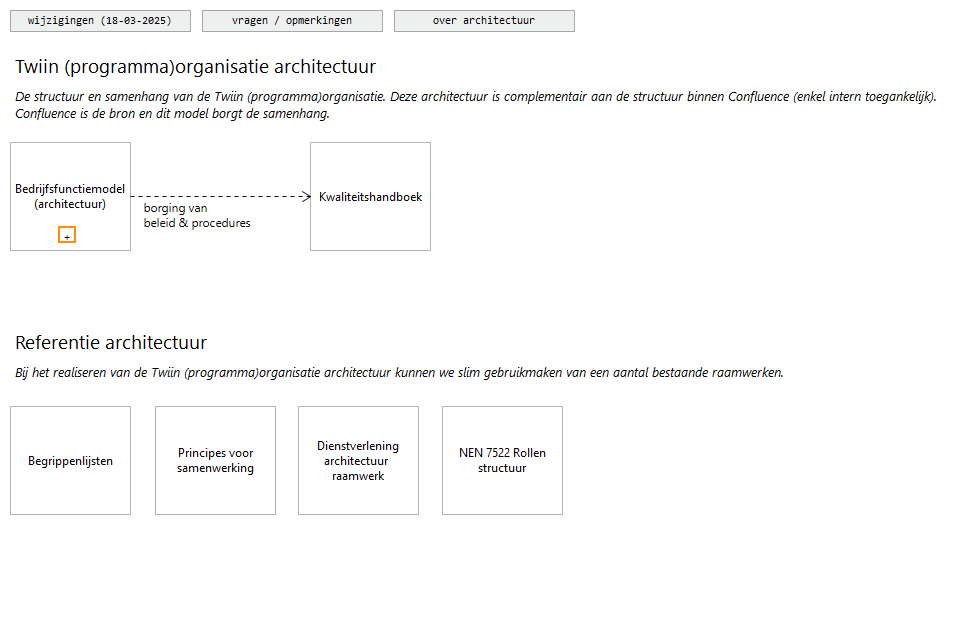
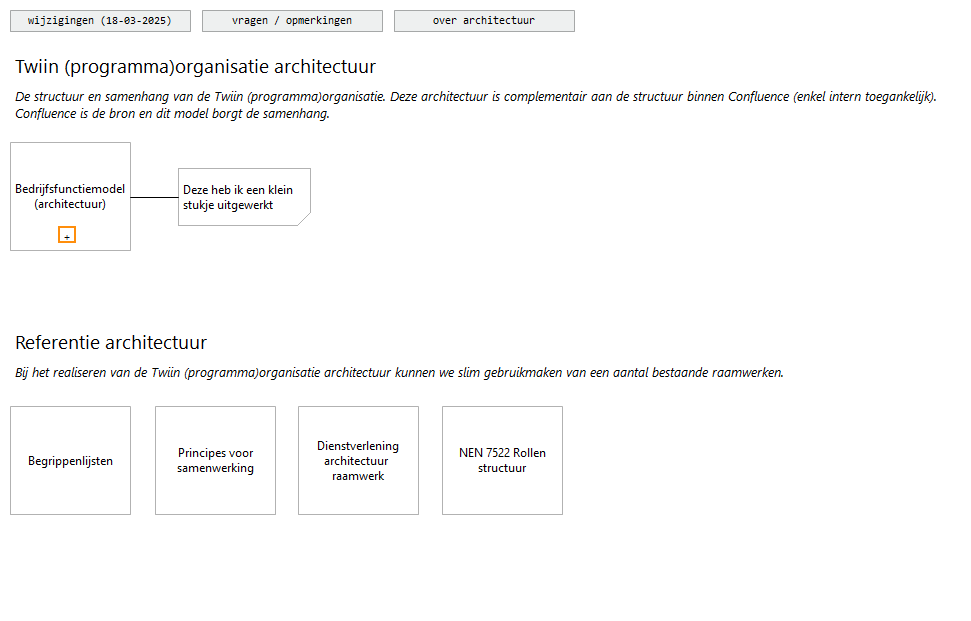
update

Changed region(s): [[0.1545, 0.2754, 0.4325, 0.3671]]

diff --git a/docs/tw-archi/id-b585bbf4dca74a17a0d9c57ed3b9f891/objects/id-09be0398b60a48168b0d820135140244.html b/docs/tw-archi/id-b585bbf4dca74a17a0d9c57ed3b9f891/objects/id-09be0398b60a48168b0d820135140244.html
@@ -1,0 +1,95 @@
+<!DOCTYPE html>
+<html class="frame" lang="en">
+<head>
+	<meta http-equiv="Content-Type" content="text/html;charset=utf-8">
+	<title></title>
+
+	<!-- JQUERY -->
+	<script type="text/javascript" src="../../lib/jquery/jquery.min.js"></script>
+	<!-- BOOTSTRAP -->
+	<link type="text/css" rel="stylesheet" href="../../lib/bootstrap/css/bootstrap.min.yeti.css">
+	<script type="text/javascript" src="../../lib/bootstrap/js/bootstrap-3.4.1.min.js"></script>
+	<!-- REPORT SPECIFIC -->
+	<link type="text/css" rel="stylesheet" href="../../css/model.css">
+	<link type="text/css" rel="stylesheet" href="../../css/i18n.css">
+	<script type="text/javascript" src="../../js/frame.js"></script>
+	<script type="text/javascript" src="../../js/imageMapResizer.min.js"></script>
+</head>
+
+<body>
+	<div class="panel panel-default root-panel">
+
+		<div class="panel-heading root-panel-heading">
+            <!-- Name -->
+               <b class="i18n-elementtype-DiagramModelNote"></b>
+            <!-- If a View with Viewpoint -->
+			   (<span class="i18n-elementtype-DiagramModelNote"></span>)
+			   <a class="glyphicon glyphicon-info-sign" id="hint-DiagramModelNote" target="hint"></a>
+		</div>
+
+		<div class="panel-body root-panel-body">
+		    <!-- If this is a digram model (has children and no bounds) show the image -->
+
+			<div role="tabpanel">
+				<!-- Nav tabs -->
+				<ul class="nav nav-tabs" role="tablist">
+                    <!-- Purpose / Documentation / Content -->
+                       <li role="presentation" class="active"><a href="#documentation" aria-controls="documentation" role="tab" data-toggle="tab" class="i18n-content"></a></li>
+
+                    <!-- Properties -->
+                    <li role="presentation"><a href="#properties" aria-controls="properties" role="tab" data-toggle="tab" class="i18n-properties"></a></li>
+
+                    <!-- Analysis -->
+
+				</ul>
+
+				<!-- Tab panes -->
+				<div class="tab-content">
+					<div role="tabpanel" class="tab-pane active" id="documentation">
+						<div class="convertlinks documentation" style="white-space:pre-wrap">Deze heb ik een klein stukje uitgewerkt</div>
+					</div>
+					<div role="tabpanel" class="tab-pane" id="properties">
+						<table class="table table-striped table-hover table-condensed">
+							<thead>
+								<tr>
+									<th class="i18n-key"></th>
+									<th class="i18n-value"></th>
+								</tr>
+							</thead>
+							<tbody>
+							</tbody>
+						</table>
+					</div>
+					<div role="tabpanel" class="tab-pane" id="analysis">
+						<table class="table table-striped table-hover table-condensed" id="used-in-views">
+							<thead>
+								<tr><th colspan="2" class="i18n-used-in-views" /></tr>
+								<tr>
+									<th class="i18n-name"></th>
+									<th class="i18n-viewpoint"></th>
+								</tr>
+							</thead>
+							<tbody>
+							</tbody>
+						</table>
+						<table class="table table-striped table-hover table-condensed" id="model-relations">
+							<thead>
+								<tr><th colspan="4" class="i18n-model-relations" /></tr>
+								<tr>
+									<th class="i18n-name"></th>
+									<th class="i18n-type"></th>
+									<th class="i18n-source"></th>
+									<th class="i18n-target"></th>
+								</tr>
+							</thead>
+							<tbody>
+							</tbody>
+						</table>
+					</div>
+			  </div>
+			</div>
+		</div>
+	</div>
+	<script type="text/javascript">imageMapResize();</script>
+</body>
+</html>

diff --git a/docs/tw-archi/id-b585bbf4dca74a17a0d9c57ed3b9f891/views/id-11787c87dbfc49d39d5d689c7857e7eb.html b/docs/tw-archi/id-b585bbf4dca74a17a0d9c57ed3b9f891/views/id-11787c87dbfc49d39d5d689c7857e7eb.html
@@ -33,13 +33,13 @@
 		    <!-- If this is a digram model (has children and no bounds) show the image -->
 			   <img class="diagram" src="../images/id-11787c87dbfc49d39d5d689c7857e7eb.png" alt="Start - organisatie architectuur" usemap="#id-11787c87dbfc49d39d5d689c7857e7ebmap"/>
 			   <map name="id-11787c87dbfc49d39d5d689c7857e7ebmap">
+				          <area shape="rect" coords="178,168,311,226" href="../objects/id-09be0398b60a48168b0d820135140244.html" target="element" >
 				  				<area shape="rect" coords="58,226,77,244" href="../views/id-08fc967038504422a44cc6327dce0b17.html"  target="view">
 				  		    <!-- Other diagram objects -->
 
 				          <area shape="rect" coords="10,142,131,251" href="../objects/id-ed208d88145b4fab8f252e11099b687e.html" target="element" >
 				  		<area shape="rect" coords="16,574,59,611" href="../elements/id-8f1c8157bffb4f148c7d77a7ec061ca2.html"  target="element">
 				          <area shape="rect" coords="442,406,563,515" href="../objects/id-b3c903e924794d2bb0d14c9618775e02.html" target="element" >
-				          <area shape="rect" coords="310,142,431,251" href="../objects/id-f4afdefc1be2410eb575c5ca7587ee2e.html" target="element" >
 				          <area shape="rect" coords="298,406,419,515" href="../objects/id-84ec75b01e9a4bfa884b3681158abd9f.html" target="element" >
 				          <area shape="rect" coords="155,406,276,515" href="../objects/id-6be826e5c7834cf9b69b0826dcc0b830.html" target="element" >
 				          <area shape="rect" coords="10,406,131,515" href="../objects/id-bf4bf949253f4f8cb112360d4a24433b.html" target="element" >
@@ -172,11 +172,6 @@
 									        </tr>
 
 									        <tr>
-									           <td> <a href="../objects/id-f4afdefc1be2410eb575c5ca7587ee2e.html" target="element"> Kwaliteitshandboek </a> </td>
-									           <td> <a href="../objects/id-f4afdefc1be2410eb575c5ca7587ee2e.html" target="element" class="i18n-elementtype-DiagramModelGroup"> </a> </td>
-									        </tr>
-
-									        <tr>
 									           <td> <a href="../objects/id-b3c903e924794d2bb0d14c9618775e02.html" target="element"> NEN 7522 Rollen structuur </a> </td>
 									           <td> <a href="../objects/id-b3c903e924794d2bb0d14c9618775e02.html" target="element" class="i18n-elementtype-DiagramModelGroup"> </a> </td>
 									        </tr>
@@ -199,6 +194,11 @@
 											    <!-- Other graphical objects -->
 
 											
+									        <tr>
+									           <td> <a href="../objects/id-09be0398b60a48168b0d820135140244.html" target="element">  </a> </td>
+									           <td> <a href="../objects/id-09be0398b60a48168b0d820135140244.html" target="element" class="i18n-elementtype-DiagramModelNote"> </a> </td>
+									        </tr>
+
 
 								</tbody>
 							</table>
@@ -226,9 +226,9 @@
 											<!-- DEBUG: Skipping element from class com.archimatetool.model.impl.DiagramModelGroup -->
 											<!-- DEBUG: Skipping element from class com.archimatetool.model.impl.DiagramModelGroup -->
 											<!-- DEBUG: Skipping element from class com.archimatetool.model.impl.DiagramModelGroup -->
-											<!-- DEBUG: Skipping element from class com.archimatetool.model.impl.DiagramModelGroup -->
 													<!-- DEBUG: Skipping element from class com.archimatetool.model.impl.DiagramModelReference -->
 											
+											<!-- DEBUG: Skipping element from class com.archimatetool.model.impl.DiagramModelNote -->
 
 								</tbody>
 							</table>
